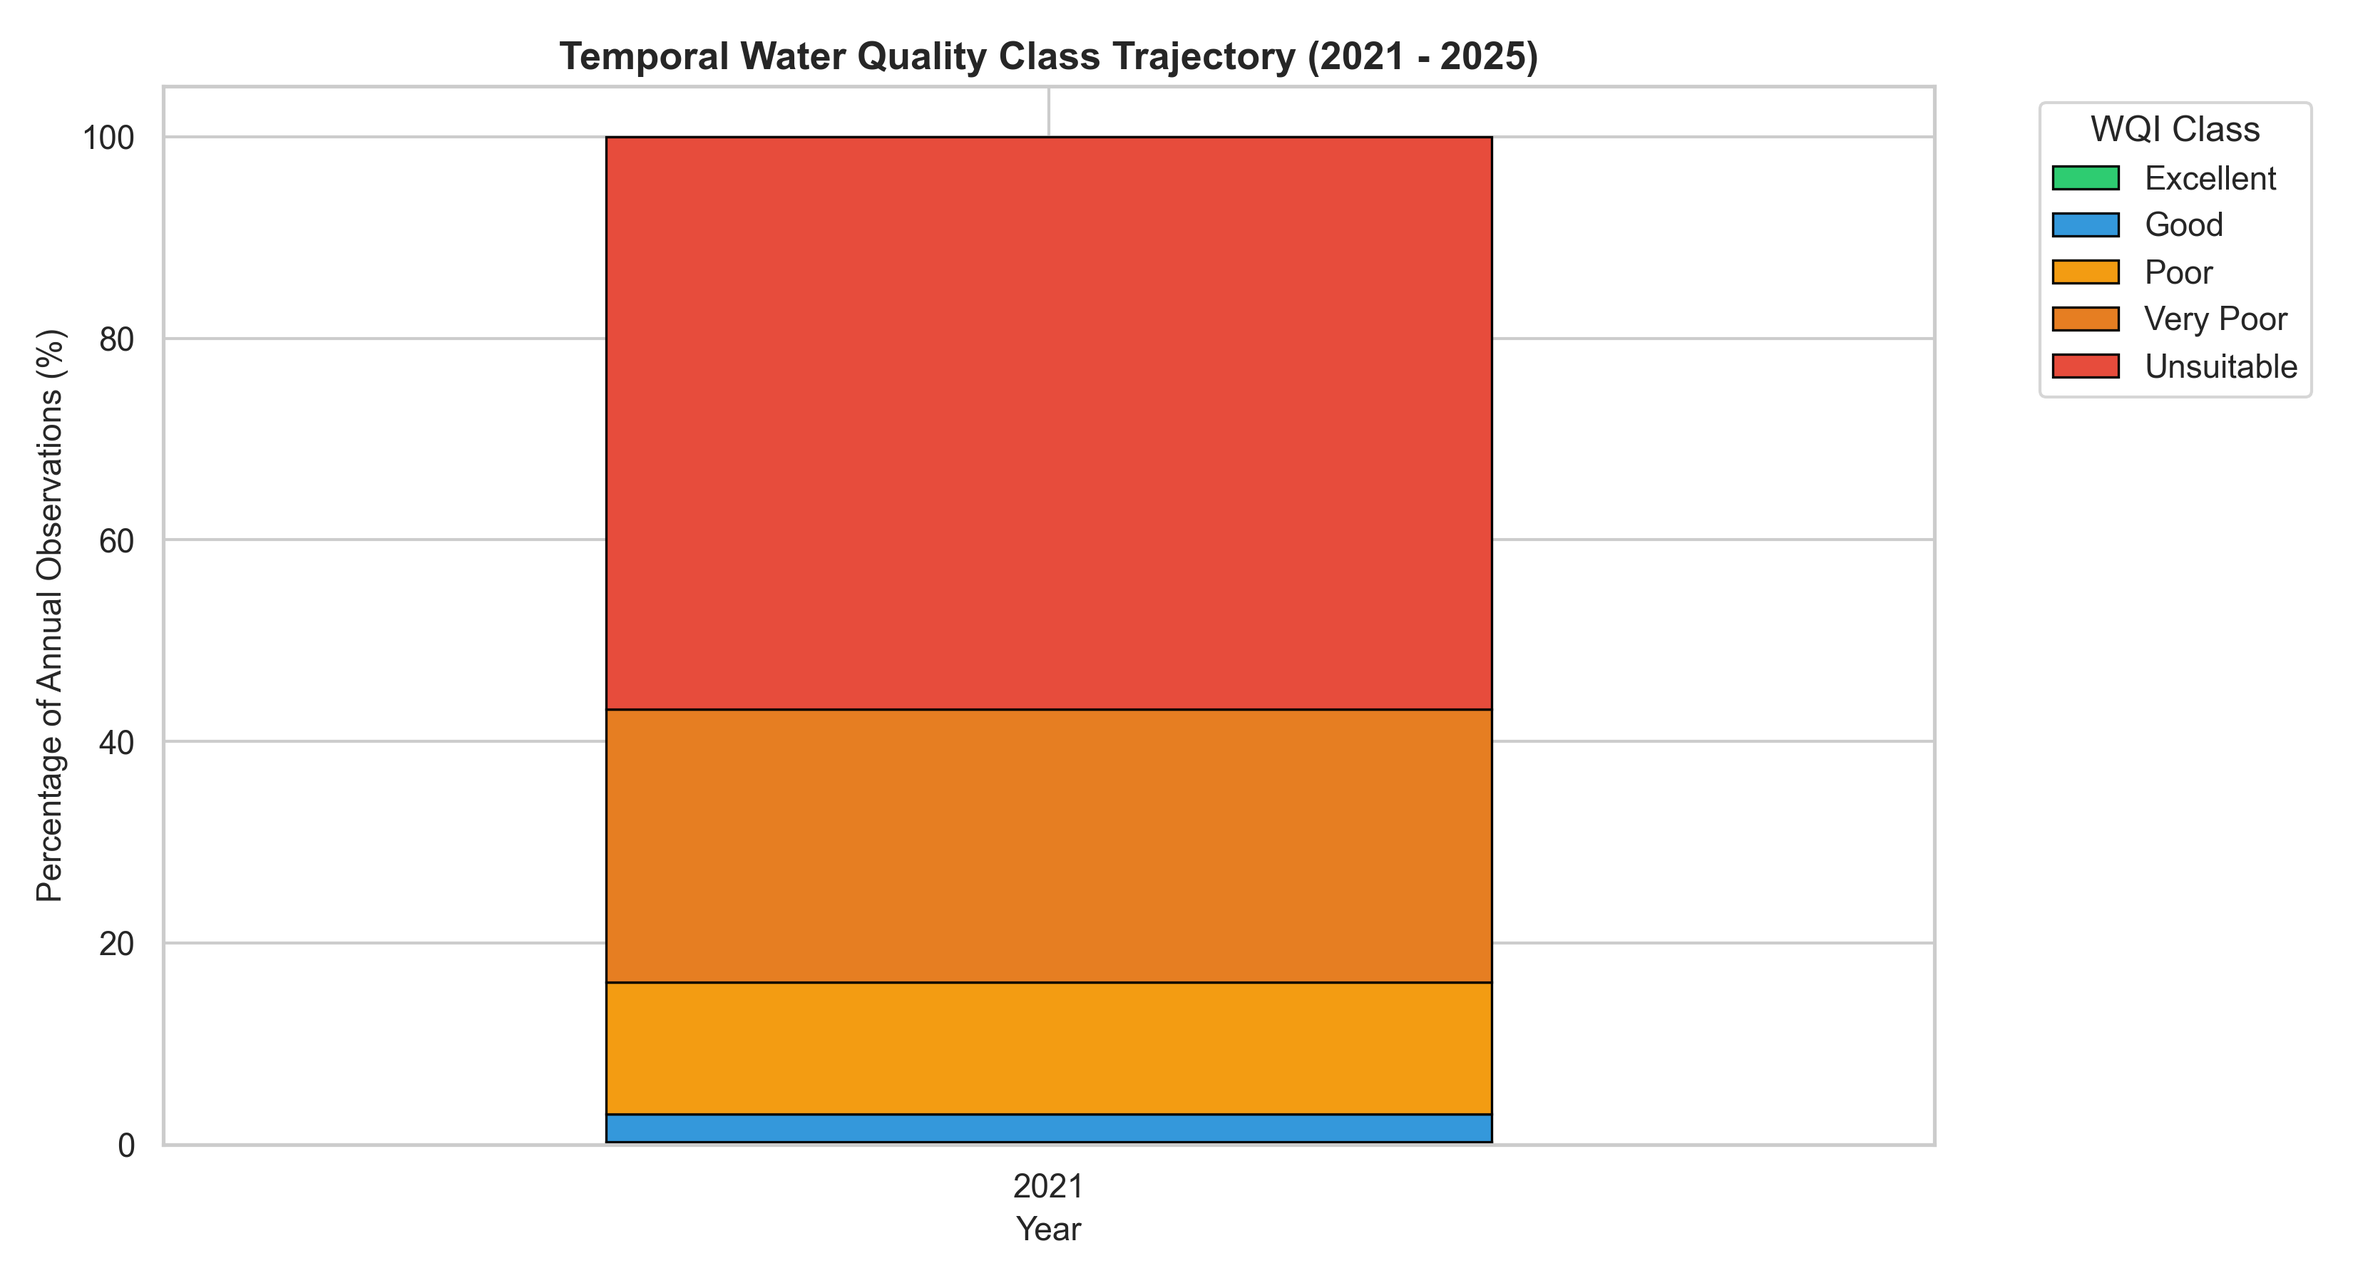
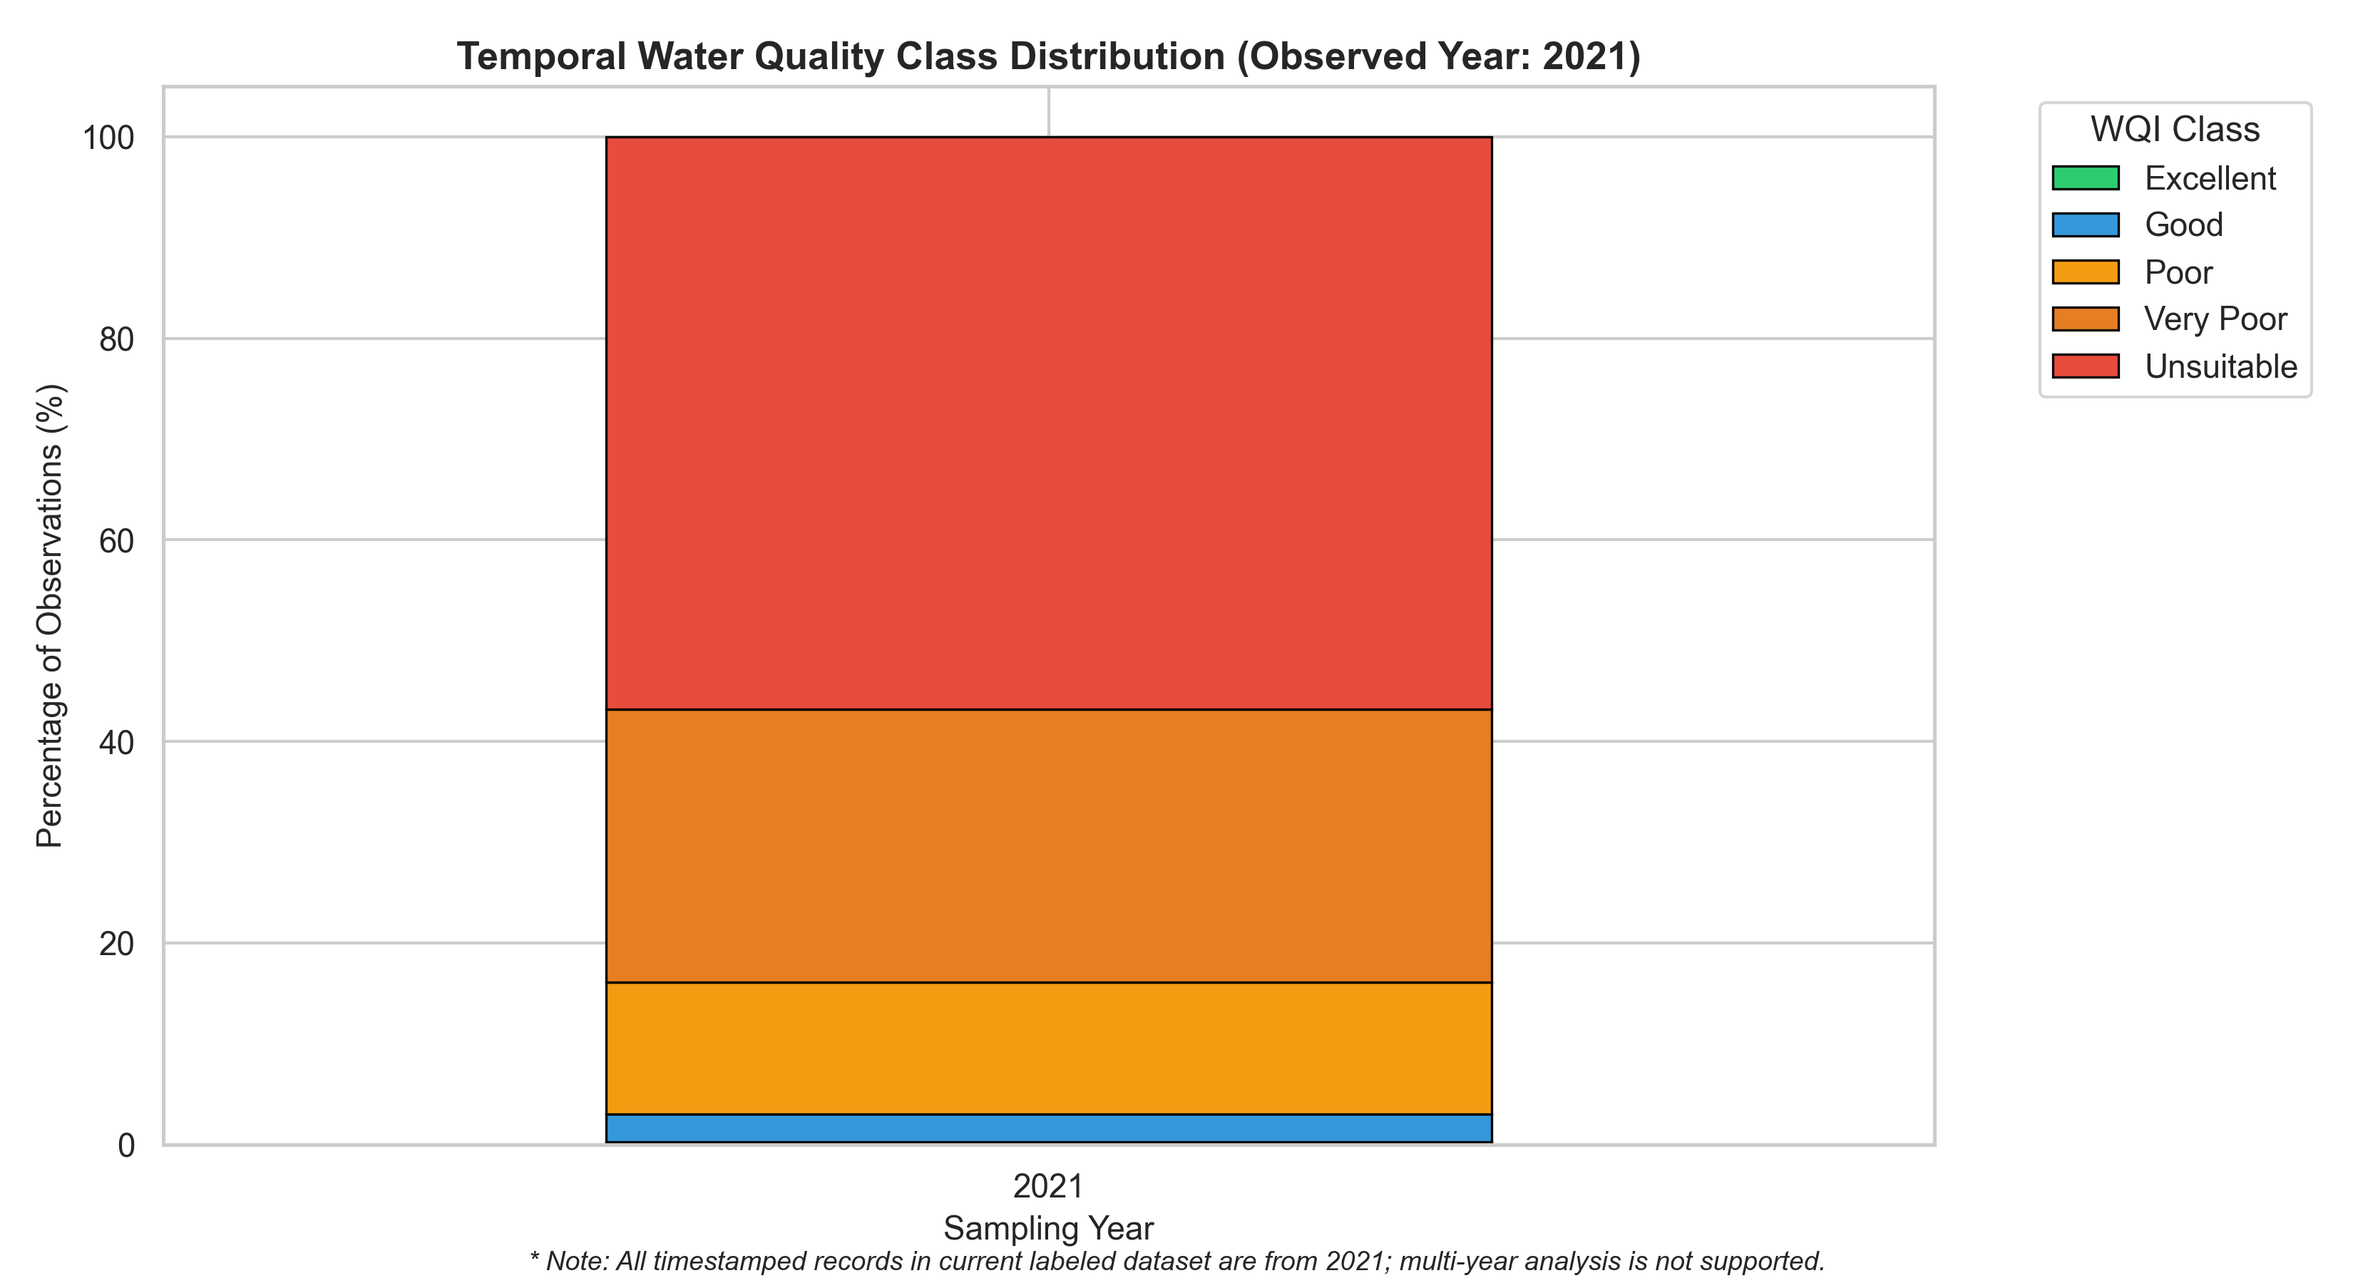
fix(eda): reconcile descriptive distributions, temporal scope, and spatial findings

Changed region(s): [[0.2185, 0.9333, 0.7803, 0.9956], [0.1873, 0.0311, 0.7179, 0.0622], [0.0, 0.28, 0.0312, 0.6844]]

diff --git a/src/features/eda.py b/src/features/eda.py
@@ -449,11 +449,12 @@ def generate_spatial_temporal_plots(
                 edgecolor="black",
                 linewidth=0.8,
             )
-            plt.title("Temporal Water Quality Class Trajectory (2021 - 2025)", fontsize=13, fontweight="bold")
-            plt.xlabel("Year", fontsize=11)
-            plt.ylabel("Percentage of Annual Observations (%)", fontsize=11)
+            plt.title("Temporal Water Quality Class Distribution (Observed Year: 2021)", fontsize=13, fontweight="bold")
+            plt.xlabel("Sampling Year", fontsize=11)
+            plt.ylabel("Percentage of Observations (%)", fontsize=11)
             plt.legend(title="WQI Class", bbox_to_anchor=(1.05, 1), loc="upper left")
             plt.xticks(rotation=0)
+            plt.figtext(0.5, 0.01, "* Note: All timestamped records in current labeled dataset are from 2021; multi-year analysis is not supported.", ha="center", fontsize=9, style="italic")
             plt.tight_layout()
             
             year_file = out_path / "temporal_yearly_wqi_distribution.png"

diff --git a/reports/eda_summary.md b/reports/eda_summary.md
@@ -4,95 +4,103 @@
 **Deliverable**: Deliverable 2 (EDA Executive Summary Report)  
 **Milestone**: 3.2 (Parameter-vs-Class Analysis & EDA Report)  
 **Author**: Data Lead (Person A) & ML Lead (Person B)  
-**Dataset**: Central Pollution Control Board (CPCB) Surface Water Quality Monitoring Data (2021–2025)  
-**Sample Size**: 3,287 labeled observations across Maharashtra and Uttar Pradesh  
+**Dataset**: Central Pollution Control Board (CPCB) Surface Water Quality Monitoring Data  
+**Analyzed Scope**: 3,287 labeled observations across Maharashtra and Uttar Pradesh (2021 Sampling Records)  
+**Schema Baseline**: Frozen under **Milestone 1.4 (Data Dictionary & Schema Freeze)**  
 
 ---
 
-## 1. Executive Summary & Context
+## 1. Executive Summary & Objective
 
-This report provides a non-technical synthesis of the exploratory data analysis conducted on the CPCB surface water quality dataset frozen under **Milestone 1.4 (Data Dictionary & Schema Freeze)**. The objective is to evaluate data quality, assess statistical feature distributions, observe how candidate parameters vary across water-quality classes as descriptive baseline evidence, and outline key constraints for subsequent machine learning and Explainable AI (SHAP) modeling.
+This report provides a concise, non-technical synthesis of the exploratory data analysis conducted on the interim CPCB surface water quality dataset. The objective is to summarize data distributions, characterize class imbalance, examine how candidate water quality parameters vary across ground-truth classes as descriptive baseline evidence, and document constraints for downstream modeling.
 
-The primary target variable is **`wqi_class`** (a 5-tier classification standard derived from CPCB Water Quality Index formulas: *Excellent*, *Good*, *Poor*, *Very Poor*, and *Unsuitable*), alongside a secondary binary target **`Potability`** (*Potable* vs. *Non-Potable*). The candidate feature set is strictly bound to the 4 frozen features established in M1.4: `Potential of Hydrogen (pH)`, `Dissolved oxygen (mg/L)`, `Biochemical Oxygen Demand (mg/L)`, and `Fecal Coliform (MPN/100mL)`.
+Per the **Milestone 1.4 Schema Freeze**, the target variable is **`wqi_class`** (a 5-tier classification standard derived from CPCB Water Quality Index formulas: *Excellent*, *Good*, *Poor*, *Very Poor*, and *Unsuitable*), alongside a secondary binary target **`Potability`** (*Potable* vs. *Non-Potable*). The candidate feature set is strictly defined as the four frozen parameters:
+1. `Potential of Hydrogen (pH)`
+2. `Dissolved oxygen (mg/L)`
+3. `Biochemical Oxygen Demand (mg/L)`
+4. `Fecal Coliform (MPN/100mL)`
+
+All four features are retained in the preprocessing pipeline without premature feature selection or elimination based on exploratory plots.
 
 ---
 
 ## 2. Key Findings
 
-### 2.1 Severe Target Class Imbalance
-The monitored surface water bodies exhibit substantial pollution skew, resulting in extreme class imbalance across the 3,287 records:
+### 2.1 Target Class Distribution & Imbalance
+The analyzed surface water dataset exhibits substantial class imbalance across the 3,287 observations:
 
 | Water Quality Class | Category | Count | Percentage | Imbalance Characterization |
 |:---|:---|---:|---:|:---|
-| **Class A (Excellent)** | Potable | 7 | **0.21%** | **Extreme Minority** (Near-zero baseline) |
+| **Class A (Excellent)** | Potable | 7 | **0.21%** | **Extreme Minority** ($N=7$) |
 | **Class B (Good)** | Potable | 110 | **3.35%** | **Severe Minority** |
 | **Class C (Poor)** | Non-Potable | 455 | **13.84%** | Moderate |
 | **Class D (Very Poor)** | Non-Potable | 919 | **27.96%** | High |
 | **Class E (Unsuitable)** | Non-Potable | 1,796 | **54.64%** | **Dominant Majority** |
 | **Total** | | **3,287** | **100.00%** | |
 
-*Summary*: Over **82.6%** of monitored water samples are classified as *Very Poor* or *Unsuitable* for consumption without extensive conventional treatment, reflecting severe urban and industrial runoff. A naive majority-class classifier would achieve **54.64%** raw accuracy simply by predicting *Class E* for every sample.
+*Summary*: Over **82.6%** of monitored observations belong to *Very Poor* (27.96%) or *Unsuitable* (54.64%) classes. A naive majority-class classifier would achieve **54.64%** raw accuracy simply by predicting *Class E* for every sample.
 
 ---
 
-### 2.2 Descriptive Parameter-vs-Class Separation
+### 2.2 Descriptive Parameter-vs-Class Distributions
 
-Evaluating how individual physical, chemical, and biological measurements distribute across classes provides **descriptive exploratory evidence** to contextualize how raw readings align with ground-truth classes. 
-
-> [!NOTE]
-> **Methodological Note**: Visual class separation serves as descriptive EDA evidence only. It does **not** determine final feature importance or predictive capacity, nor is any feature selected or eliminated based on these plots. All 4 frozen features from M1.4 are retained for model training and subsequent SHAP evaluation (Phase 7).
+The box and violin plots summarize the observed empirical distributions, median shifts, overlap, and spreads across classes for the four frozen features:
 
 ```
-          [ Clear Visual Spread ]                            [ Central Clustering ]
-   BOD  ───────────►  Fecal Coliform  ───────────►  DO  ───────────►  pH
-(Wide Separation)   (Microbial Spread)        (Oxygen Drop)       (Buffered Range)
+          [ Clear Progressive Shift ]                        [ Overlapping Central Values ]
+   BOD  ───────────►  Dissolved Oxygen  ───────────►  Fecal Coliform  ───────────►  pH
+(Median Shift)       (Lower-Tail Drop)              (Extreme Skew)               (Buffered)
 ```
 
 1. **Biochemical Oxygen Demand (BOD)**:
-   - *Descriptive Observation*: Median BOD increases across classes from low levels ($<2.0\text{ mg/L}$) in *Good* waters to elevated concentrations ($>25\text{ mg/L}$, reaching $127\text{ mg/L}$) in *Class E (Unsuitable)* waters.
-   - *Context*: Provides a clear empirical contrast between clean and highly polluted sample groups.
+   - *Distribution*: Exhibits a progressive increase in central values across classes: *Good* (median $1.30\text{ mg/L}$, IQR $1.20 - 1.40$), *Poor* (median $1.80\text{ mg/L}$, IQR $1.60 - 2.10$), *Very Poor* (median $3.00\text{ mg/L}$, IQR $2.80 - 3.40$), and *Unsuitable* (median $6.80\text{ mg/L}$, IQR $4.40 - 12.00\text{ mg/L}$).
+   - *Spread & Tail*: In *Class E*, while the central 50% of observations lie between $4.40$ and $12.00\text{ mg/L}$, an extended upper tail reaches up to $127.00\text{ mg/L}$.
 
-2. **Fecal Coliform (FC)**:
-   - *Descriptive Observation*: Spans a wide dynamic range (median $140\text{ MPN/100mL}$ in cleaner waters up to extreme bacterial surges exceeding $10^6 - 10^7\text{ MPN/100mL}$ in *Class E*).
-   - *Context*: Highlights acute biological contamination in lower quality classes.
+2. **Dissolved Oxygen (DO)**:
+   - *Distribution*: Central values shift downward from *Good* (median $8.95\text{ mg/L}$, IQR $8.58 - 9.28$) and *Poor* (median $7.30\text{ mg/L}$, IQR $6.90 - 8.40$) to *Very Poor* (median $7.00\text{ mg/L}$, IQR $6.20 - 7.70$) and *Unsuitable* (median $5.40\text{ mg/L}$, IQR $4.20 - 6.70$).
+   - *Spread & Tail*: In *Class E*, the lower tail extends into hypoxic levels below $2.00\text{ mg/L}$ (minimum observed: $0.30\text{ mg/L}$), while occasional supersaturated readings extend up to $28.00\text{ mg/L}$.
 
-3. **Dissolved Oxygen (DO)**:
-   - *Descriptive Observation*: Waters in *Excellent* / *Good* classes maintain higher median dissolved oxygen ($>6.5\text{ mg/L}$), whereas samples in *Class D* / *Class E* exhibit lower oxygen levels frequently below $2.0\text{ mg/L}$.
-   - *Context*: Reflects oxygen depletion characteristic of organically degraded surface water.
+3. **Fecal Coliform (FC)**:
+   - *Distribution*: Exhibits notable overlap across classes within central quartiles (*Good* median $220.0\text{ MPN/100mL}$, *Poor* median $6.1\text{ MPN/100mL}$, *Very Poor* median $20.0\text{ MPN/100mL}$, *Unsuitable* median $220.0\text{ MPN/100mL}$).
+   - *Spread & Tail*: The *Unsuitable* class displays an extremely wide, heavy-tailed distribution with an upper quartile of $11,000\text{ MPN/100mL}$ and maximum observed concentrations reaching $2.2 \times 10^7\text{ MPN/100mL}$.
 
 4. **Potential of Hydrogen (pH)**:
-   - *Descriptive Observation*: Across classes *A* through *D*, pH remains centrally clustered around neutral-to-alkaline ranges (median $7.70$, IQR $7.30 - 8.10$), while *Class E* shows broader spread ($3.45$ to $9.20$).
-   - *Context*: Visual overlap across intermediate classes reflects that pH alone is a buffered parameter; its diagnostic value occurs primarily during acute acidic or alkaline discharge events.
+   - *Distribution*: Medians remain tightly buffered between $7.20$ and $7.95$ across all five classes (*Excellent*: $7.20$, *Good*: $7.32$, *Poor*: $7.60$, *Very Poor*: $7.95$, *Unsuitable*: $7.80$).
+   - *Spread & Tail*: While classes *A* through *D* remain within $6.20 - 8.93$, *Class E* exhibits the widest range ($3.45$ to $9.20$).
+
+> [!NOTE]
+> **Methodological Boundary**: Visual separation and distributional differences serve strictly as descriptive exploratory evidence. They do **not** establish predictive importance, feature rankings, or SHAP attribution. Formal model explanations will be evaluated in Phase 7.
 
 ---
 
 ### 2.3 Feature Correlation & Multicollinearity
-- **Redundancy Threshold Check**: Pairwise linear (Pearson $r$) and monotonic (Spearman $\rho$) correlations were audited across all features. **No pairwise correlation exceeded the $|r| > 0.85$ redundancy threshold**.
-- **Physical Relationships**: A moderate negative correlation exists between Dissolved Oxygen and BOD ($\rho = -0.36$), reflecting natural microbial oxygen consumption during organic breakdown. BOD and Fecal Coliform correlate positively ($r = +0.31$, $\rho = +0.51$) due to co-occurrence in municipal sewage outfalls.
-- **Conclusion**: All four candidate features contribute distinct, non-redundant signals and are retained for model training.
+- **Redundancy Threshold Check**: Pairwise Pearson ($r$) and Spearman ($\rho$) correlation coefficients were computed across all numeric candidate features. **No pairwise correlation exceeded the $|r| > 0.85$ redundancy threshold**.
+- **Observed Associations**: Dissolved Oxygen and BOD show a moderate negative rank correlation ($\rho = -0.36$), while BOD and Fecal Coliform exhibit a positive rank correlation ($\rho = +0.51$, $r = +0.31$).
+- **Conclusion**: All four candidate features contribute non-redundant measurements and are retained for model development.
 
 ---
 
 ### 2.4 Spatial and Temporal Observations
-- **Spatial Coverage**: The dataset spans monitoring stations across Maharashtra ($N = 1,896$, $57.7\%$) and Uttar Pradesh ($N = 1,391$, $42.3\%$). Both states exhibit high representation of *Class D* and *Class E* waters along major river stretches (e.g., Godavari, Krishna, Ganga, Yamuna basins).
-- **Temporal Consistency**: Continuous sampling records from 2021 through 2025 demonstrate stable class distribution proportions over time without anomalous missing periods or single-year reporting bias.
+- **Spatial Breakdown by State**:
+  - *Maharashtra* ($N = 1,896$, $57.7\%$ of total): Class A: $0.32\%$, Class B: $1.16\%$, Class C: $11.34\%$, Class D: $31.43\%$, Class E: $55.75\%$.
+  - *Uttar Pradesh* ($N = 1,391$, $42.3\%$ of total): Class A: $0.07\%$, Class B: $6.33\%$, Class C: $17.25\%$, Class D: $23.22\%$, Class E: $53.13\%$.
+  - Both state subsets show a majority of samples classified as *Class E* ($>53\%$).
+- **Temporal Coverage**:
+  - Analysis of the timestamp field (`Data Acquisition Time`) indicates that all timestamped records ($N = 2,610$, with $677$ missing timestamps) originate from sampling dates within the calendar year **2021** (January 2021 – December 2021).
+  - **Multi-year temporal trend analysis (e.g., across 2021–2025) is not supported by the available labeled dataset.**
 
 ---
 
-## 3. Modeling & Decision Support Directives (Phase 4 – 9)
+## 3. Modeling & Evaluation Directives (Phase 4 – 9)
 
-Based on these empirical findings, the downstream tracks must adhere to the following directives:
-
-1. **Mandatory Stratified Splitting (M4.2)**: Standard random train/test splits risk leaving *Class A* ($N=7$) completely absent from test sets. Splitting must use `StratifiedKFold(n_splits=5, shuffle=True, random_state=42)`.
-2. **Primary Performance Metrics (M5.1)**: Raw classification accuracy must be deprecated in favor of **Macro F1-Score**, **Balanced Accuracy**, and **Per-Class Precision-Recall curves**.
-3. **Imbalance Mitigation Benchmarking (M6.1)**: Baseline unweighted models must be compared against class-weighted loss penalties (`class_weight='balanced'`) and synthetic oversampling (SMOTE).
-4. **SHAP Interpretation Sanity Check (M7.1)**: Feature importance in tree models (XGBoost, Random Forest) should reflect the empirical separation hierarchy identified in this report (BOD & FC > DO > pH).
+1. **Stratified Partitioning (M4.2)**: Given the extreme scarcity of *Class A* ($N=7$), standard unstratified splits risk omitting minority samples from evaluation folds. Splitting must use `StratifiedKFold(n_splits=5, shuffle=True, random_state=42)`.
+2. **Primary Evaluation Metrics (M5.1)**: Raw classification accuracy is uninformative due to majority class dominance ($54.64\%$). Model comparisons must prioritize **Macro F1-Score**, **Balanced Accuracy**, and per-class **Precision-Recall metrics**.
+3. **Imbalance Handling Benchmarking (M6.1)**: Baseline unweighted models should be compared against class-weighted loss formulations (`class_weight='balanced'`) and synthetic oversampling strategies.
 
 ---
 
 ## 4. Visual Artifact References
-All associated figures are archived in the repository for review:
 - Univariate Histograms & Boxplots: [`reports/figures/eda/`](file:///d:/Coding/College/Data%20science/CP/reports/figures/eda/)
 - Parameter-vs-Class Separation Figures: [`reports/figures/parameter_vs_class/`](file:///d:/Coding/College/Data%20science/CP/reports/figures/parameter_vs_class/)
 - Spatial & Temporal Distributions: [`reports/figures/parameter_vs_class/spatial_state_wqi_distribution.png`](file:///d:/Coding/College/Data%20science/CP/reports/figures/parameter_vs_class/spatial_state_wqi_distribution.png)
-- Ground-Truth Class Table: [`reports/class_distribution.csv`](file:///d:/Coding/College/Data%20science/CP/reports/class_distribution.csv)
+- Ground-Truth Class Distribution Table: [`reports/class_distribution.csv`](file:///d:/Coding/College/Data%20science/CP/reports/class_distribution.csv)
